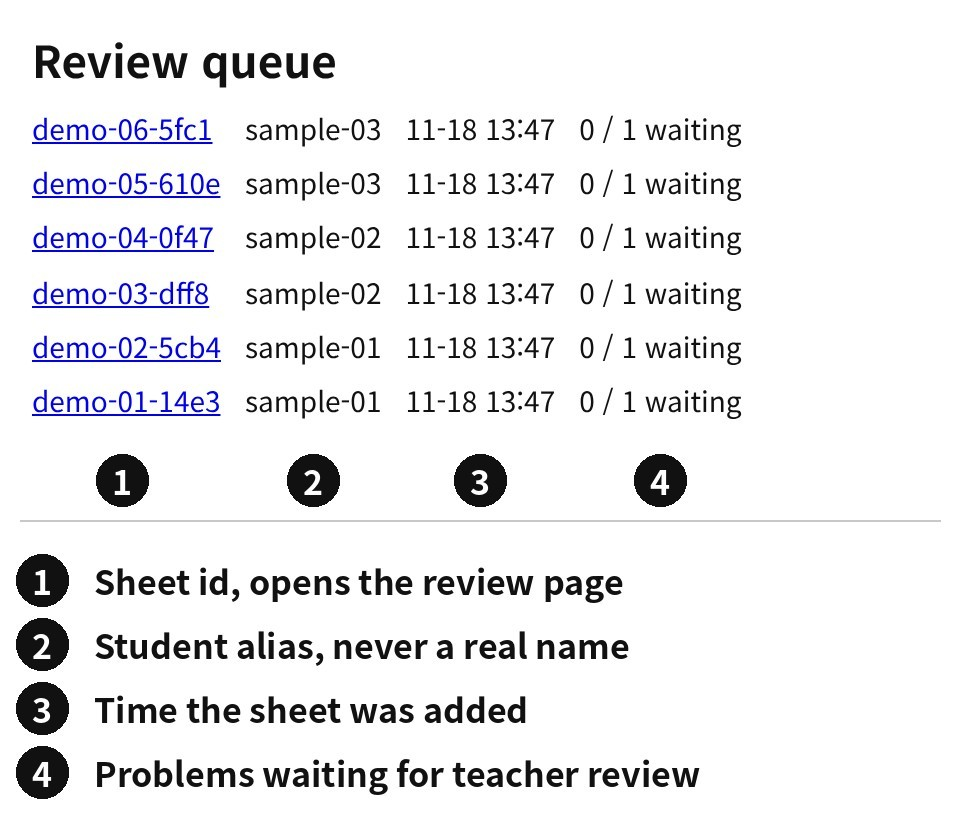
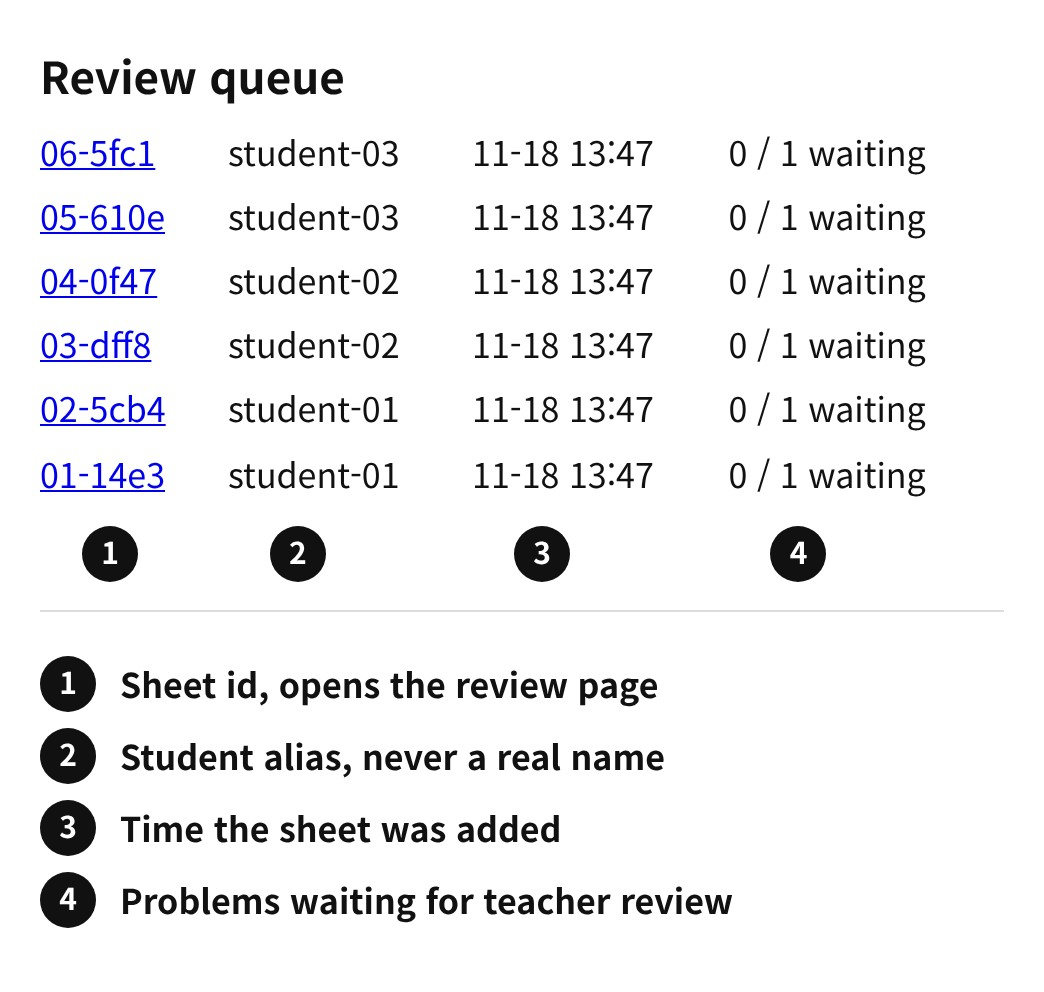
Pathfinder: remove sample/demo wording from captures and captions
Claude-Session: https://claude.ai/code/session_01ATjxQoAAr1nvNRHSL99p8S

Changed region(s): [[0.0, 0.2757, 0.9688, 0.9804], [0.0312, 0.0306, 0.9062, 0.2451]]

diff --git a/projects/first-wrong-step/index.html b/projects/first-wrong-step/index.html
@@ -103,13 +103,13 @@ td:first-child{white-space:normal}
 <ul class="tags" aria-label="Built with"><li>#FewShotLearning</li><li>#ClaudeOpus5.5API</li><li>#Python</li><li>#SymPy</li><li>#SQLite</li></ul>
 <div class="actions"></div>
 </header>
-<div class="wrap"><div class="show" role="region" aria-label="Project media"><div class="track"><figure class="slide"><img src="img/00-lead-business-card.jpg" alt="Two business cards for the author on a black background: the 김과외 logo side and the name side reading Supreme Class teacher, top 0.02% nationwide" loading="eager"><figcaption>김과외 Supreme Class business card</figcaption></figure><figure class="slide"><img src="img/01-lead-review-queue.jpg" alt="Teacher review page in light mode: sheet photo, routing note, line checker marks, first wrong line and error type, with five numbered callouts" loading="eager"><figcaption>Teacher review page on sample data: photo, checker marks, diagnosis</figcaption></figure><figure class="slide"><img src="img/03-solution-student-report.jpg" alt="Printable student report in light mode: feedback on the first wrong line, corrected line, habit and two follow-up problems, with five numbered callouts" loading="eager"><figcaption>Student report on sample data: feedback, correction, habit, follow-ups</figcaption></figure><figure class="slide"><img src="img/04-solution-queue.jpg" alt="Review queue listing six sample sheets by id, student alias, time and problems waiting, with four numbered callouts" loading="eager"><figcaption>Review queue on sample data</figcaption></figure><figure class="slide"><img src="img/02-process-sample-sheet.jpg" alt="Lined page with six handwritten-style lines solving a log equation" loading="eager"><figcaption>Sample sheet: the root x = -2 kept against the condition</figcaption></figure></div><div class="bar"><button class="prev" type="button" aria-label="Previous">&larr;</button><span class="count" aria-live="polite">1 / 5</span><button class="next" type="button" aria-label="Next">&rarr;</button></div></div></div>
+<div class="wrap"><div class="show" role="region" aria-label="Project media"><div class="track"><figure class="slide"><img src="img/00-lead-business-card.jpg" alt="Two business cards for the author on a black background: the 김과외 logo side and the name side reading Supreme Class teacher, top 0.02% nationwide" loading="eager"><figcaption>김과외 Supreme Class business card</figcaption></figure><figure class="slide"><img src="img/01-lead-review-queue.jpg" alt="Teacher review page in light mode: sheet photo, routing note, line checker marks, first wrong line and error type, with five numbered callouts" loading="eager"><figcaption>Teacher review page: photo, checker marks, diagnosis</figcaption></figure><figure class="slide"><img src="img/03-solution-student-report.jpg" alt="Printable student report in light mode: feedback on the first wrong line, corrected line, habit and two follow-up problems, with five numbered callouts" loading="eager"><figcaption>Student report: feedback, correction, habit, follow-ups</figcaption></figure><figure class="slide"><img src="img/04-solution-queue.jpg" alt="Review queue listing six sheets by id, student alias, time and problems waiting, with four numbered callouts" loading="eager"><figcaption>Review queue</figcaption></figure><figure class="slide"><img src="img/02-process-student-sheet.jpg" alt="Lined page with six handwritten-style lines solving a log equation" loading="eager"><figcaption>Student sheet: the root x = -2 kept against the condition</figcaption></figure></div><div class="bar"><button class="prev" type="button" aria-label="Previous">&larr;</button><span class="count" aria-live="polite">1 / 5</span><button class="next" type="button" aria-label="Next">&rarr;</button></div></div></div>
 <main class="wrap">
 <section class="part" id="overview"><h2>Overview</h2><div class="part-body"><p>Built for the teacher. Photograph a student&#x27;s handwritten homework and Pathfinder checks it: the first wrong line of each problem, CSAT-level feedback on it, and three past-exam follow-up problems on the same skill. Anything it is unsure of waits for the teacher.</p>
 <dl class="kv"><div><dt>Method</dt><dd>few-shot learning from worked examples and the teacher&#x27;s own corrections, no fine-tuning</dd></div><div><dt>Checks</dt><dd>SymPy line checker and the official answer key, outside the model</dd></div><div><dt>Built by</dt><dd>a tutor in the top 0.01% on 김과외 (author&#x27;s statement, screenshot to be added)</dd></div><div><dt>Coverage</dt><dd>5 subjects, 15 units, 64 skill tags, 8 error types</dd></div></dl></div></section>
 <section class="part" id="problem-define"><h2>Problem define</h2><div class="part-body"><p>Checking homework by hand eats a teacher&#x27;s time. Photo solvers read the problem and solve it themselves, so they grade the answer, not the student&#x27;s lines. The teacher still has to find where each student went wrong, then choose what to assign next.</p></div></section>
 <section class="part" id="solution"><h2>Solution</h2><div class="part-body"><p>Two jobs taken off the teacher. Homework check: a command line tool and a local review page mark each sheet line by line. Problem picks: a printable student report with follow-up problems on the skill that broke, one easier, one equal, one harder. Every teacher edit is kept and fed back as a few-shot example.</p>
-<div class="tablebox"><table><thead><tr><th scope="col">Value with unit</th><th scope="col">What it measures (10 words or fewer)</th></tr></thead><tbody><tr><td>5 of 5</td><td>wrong answers flagged by the answer key, 6 sample sheets</td></tr><tr><td>1 of 5</td><td>planted mistakes located by the line checker alone</td></tr><tr><td>15 tests</td><td>checker, few-shot loop, routing, recommendation, end-to-end pass</td></tr></tbody></table></div></div></section>
+<div class="tablebox"><table><thead><tr><th scope="col">Value with unit</th><th scope="col">What it measures (10 words or fewer)</th></tr></thead><tbody><tr><td>5 of 5</td><td>wrong answers flagged by the answer key, 6 sheets</td></tr><tr><td>1 of 5</td><td>planted mistakes located by the line checker alone</td></tr><tr><td>15 tests</td><td>checker, few-shot loop, routing, recommendation, end-to-end pass</td></tr></tbody></table></div></div></section>
 <section class="part" id="process"><h2>Key Process</h2><div class="part-body"><ol><li>Transcribe. Claude copies each written line into LaTeX with the mistakes kept and marks unclear handwriting.</li><li>Check. SymPy re-checks arithmetic, identities and solution sets line by line; the answer key decides the final answer.</li><li>Few-shot. Three worked examples plus the teacher&#x27;s past corrections on the same skill go into every diagnosis.</li><li>Route. A problem goes out alone only if handwriting, bank match, checker and model agree; the rest waits for a teacher.</li></ol></div></section>
 </main>
 <footer class="wrap foot"><a class="back" href="../../index.html#work">All work</a></footer>
